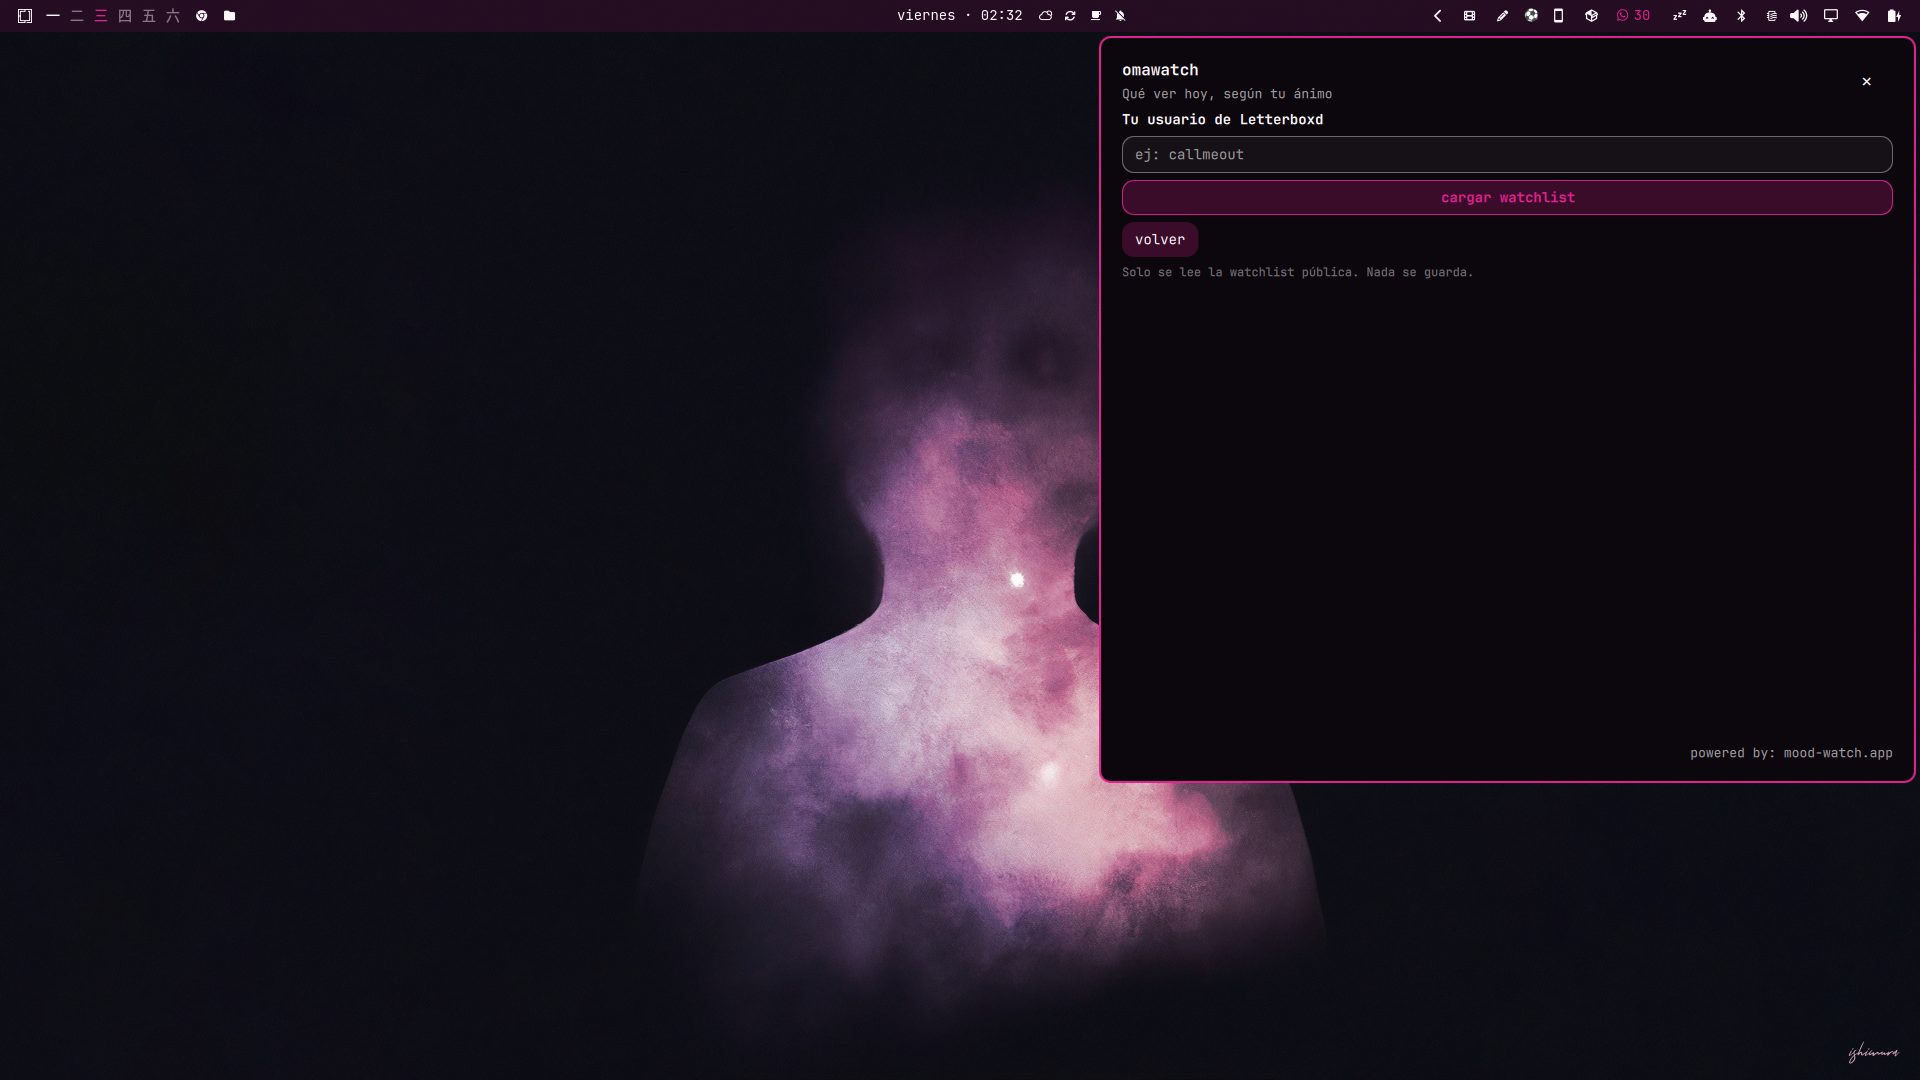
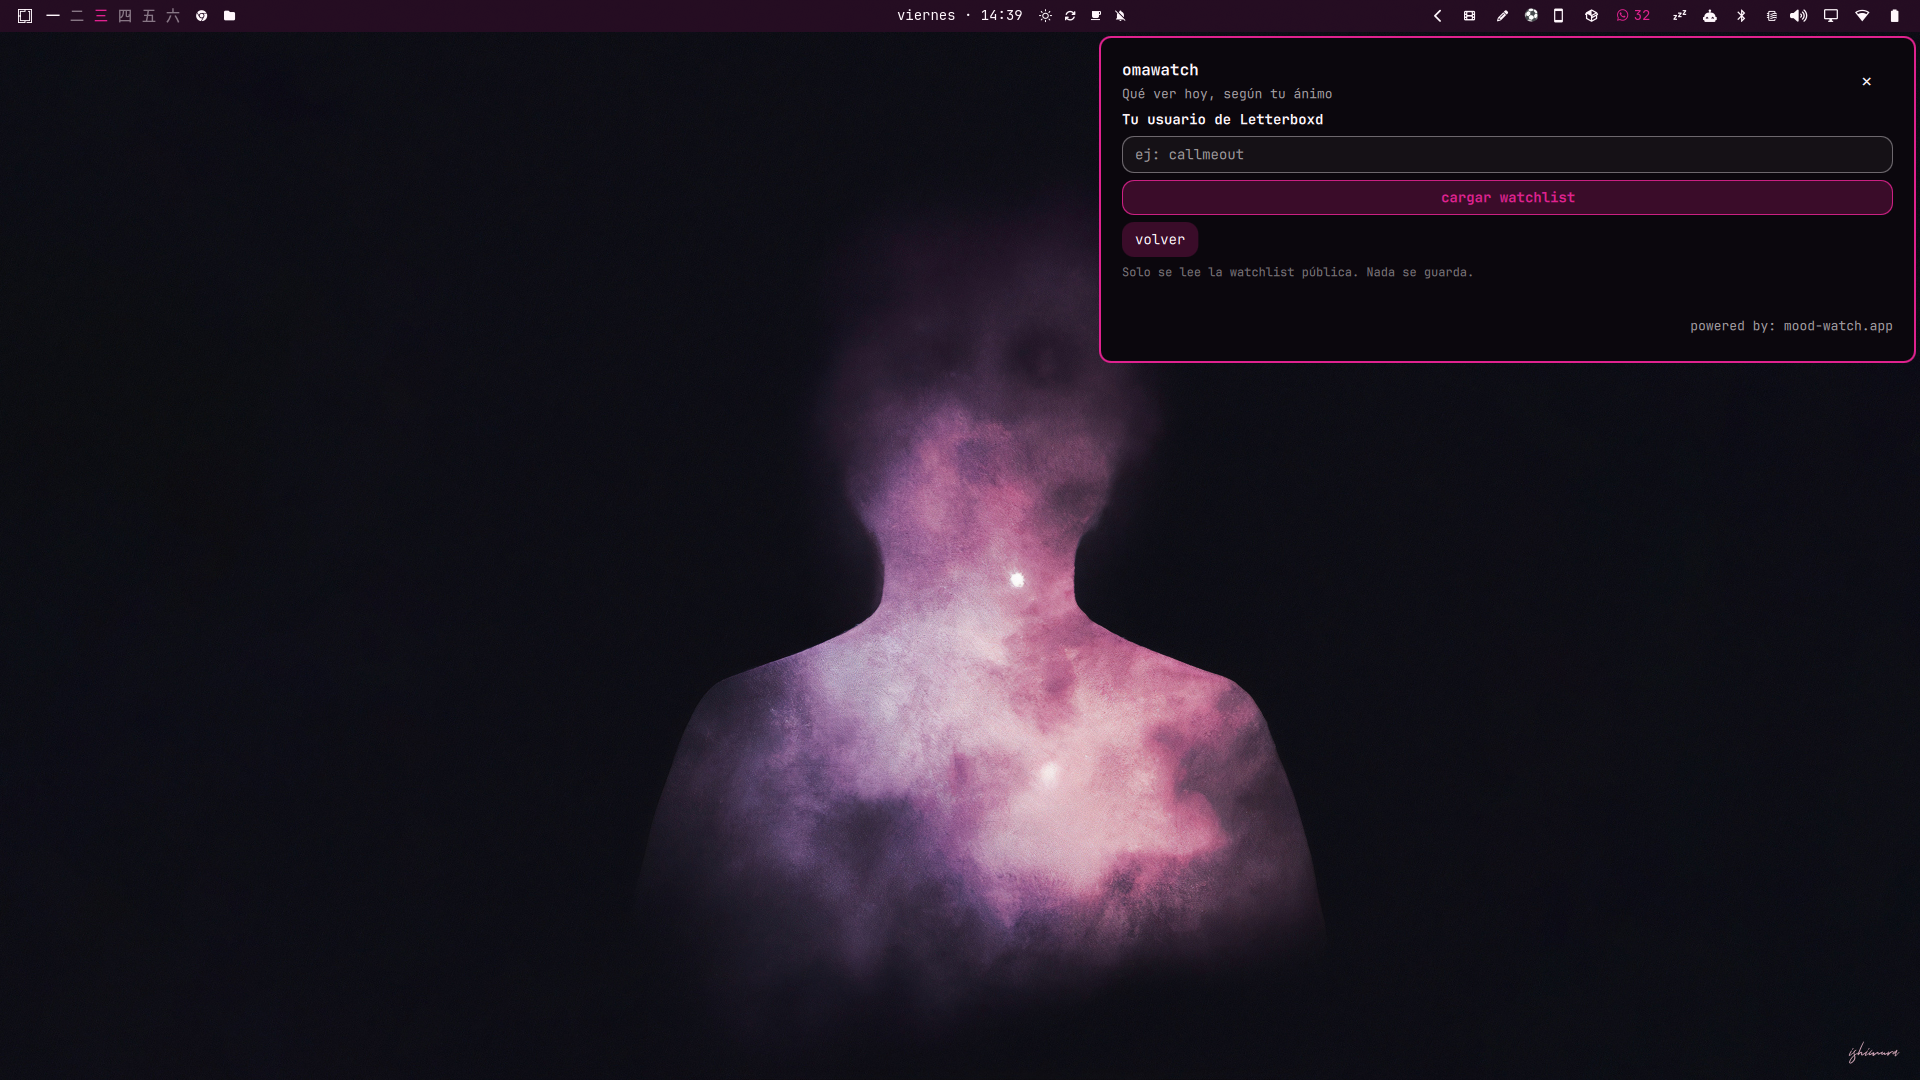
release: omawatch 1.0.6 with polished English README and Ko-fi support

diff --git a/Omawatch.qml b/Omawatch.qml
@@ -16,7 +16,7 @@ Item {
     : root.phase === "quiz"
       ? Style.space(340)
       : root.phase === "letterboxd" || root.phase === "syncing"
-        ? Style.space(460)
+        ? Style.space(280)
         : Style.space(340)
   property bool opened: false
   property bool busy: false

diff --git a/README.md b/README.md
@@ -1,35 +1,70 @@
 # omawatch
 
-[Español](README.es.md)
+<p align="center">
+  <a href="https://www.ko-fi.com/brmcl"><img src="https://ko-fi.com/img/githubbutton_sm.svg" alt="Support me on Ko-fi" /></a>
+</p>
 
-![omawatch preview](preview.png)
+<p align="center">
+  <strong>A small, opinionated film picker for Omarchy.</strong><br />
+  Five mood questions, a public Letterboxd watchlist, or one blind wager for tonight.
+</p>
 
-![omawatch icon](icon.png)
+<p align="center">
+  <a href="https://github.com/brm-src/omawatch/releases"><img src="https://img.shields.io/github/v/release/brm-src/omawatch?style=flat-square&label=release" alt="Latest release" /></a>
+  <a href="https://github.com/brm-src/omawatch/blob/main/LICENSE"><img src="https://img.shields.io/github/license/brm-src/omawatch?style=flat-square" alt="MIT license" /></a>
+</p>
+
+<p align="center">
+  <img src="preview.png" alt="omawatch preview" />
+</p>
+
+A bilingual Omarchy / Quickshell panel powered by [mood-watch.app](https://mood-watch.app). It answers one question without becoming a tracker, social feed, or recommendation dashboard:
+
+> **What should I watch tonight?**
 
 ## Real screenshots
 
-These are captures from the running plugin on an Omarchy desktop, not mockups:
+These are captures from the running plugin on an Omarchy desktop, not mockups.
 
-- [home](screenshots/01-home-final.png) — mood test, Letterboxd and surprise actions.
-- [quiz](screenshots/02-quiz-final.png) — five-question mood flow.
-- [Letterboxd](screenshots/03-letterboxd-final.png) — public watchlist connection.
-- [results](screenshots/04-results-final.png) — three live recommendations from mood-watch.app.
-- [desktop bar](screenshots/05-desktop-bar.png) — the real bar context with the film icon.
+<p align="center">
+  <img src="screenshots/01-home-final.png" alt="omawatch home panel" />
+</p>
 
-The small film-reel icon in `icon.svg` is also used by the bar widget.
+<p align="center"><em>Home: mood test, surprise pick, public Letterboxd watchlist.</em></p>
 
-A bilingual Omarchy / Quickshell panel that picks a film for tonight. Answer a five-question mood quiz — or connect your Letterboxd username and get picks from your own watchlist. Powered by [mood-watch.app](https://mood-watch.app).
+<p align="center">
+  <img src="screenshots/02-quiz-final.png" alt="omawatch mood quiz" />
+</p>
 
-It is deliberately not a tracker or a social feed. It answers one question: what do I watch tonight?
+<p align="center"><em>Quiz: short, focused questions with compact controls.</em></p>
+
+<p align="center">
+  <img src="screenshots/03-letterboxd-final.png" alt="omawatch Letterboxd connection" />
+</p>
+
+<p align="center"><em>Letterboxd: public watchlist connection, no login or password.</em></p>
+
+<p align="center">
+  <img src="screenshots/04-results-final.png" alt="omawatch film recommendations" />
+</p>
+
+<p align="center"><em>Results: live posters, complete overviews, English presentation titles where appropriate, and localized descriptions.</em></p>
+
+<p align="center">
+  <img src="screenshots/05-desktop-bar.png" alt="omawatch in the Omarchy desktop bar" />
+</p>
+
+<p align="center"><em>The real bar context with the film icon.</em></p>
 
 ## What it does
 
-- **Quick mood test** — five questions (energy, appetite, time, tone, aftertaste) and it returns three picks with poster, year, director, runtime and overview.
-- **Letterboxd watchlist** — enter your username once, it reads your public watchlist, and the same quiz then picks from *your* list. The public `@callmeout` account was used for the real screenshot/e2e check (466 watchlist titles).
-- **Surprise me** — no questions, a random wager from the catalog.
-- Picks include "where to watch" and Letterboxd links.
-- Bilingual UI (English/Spanish) following the system locale.
-- The username is only used to read your public watchlist. Nothing is stored on disk and no account is created.
+- **Quick mood test** — five questions covering energy, appetite, time, tone, and aftertaste.
+- **Letterboxd watchlist** — enter a public username and pick only from your own watchlist. The public `@callmeout` account was used for the real sync check with 466 titles.
+- **Surprise me** — one curated blind pick without a questionnaire.
+- **Useful film cards** — poster, title, year, director, runtime, complete overview, where-to-watch link, and Letterboxd link.
+- **Presentation rule** — titles and posters stay in English unless the film is Spanish-language; overviews and genres follow the system language.
+- **Bilingual UI** — English or Spanish according to the system locale.
+- **Privacy by default** — no account, no password, no API key, and no watchlist data written to disk.
 
 ## Install
 
@@ -37,29 +72,31 @@ It is deliberately not a tracker or a social feed. It answers one question: what
 omarchy plugin add https://github.com/brm-src/omawatch.git --enable --yes
 ```
 
-No administrator privileges are required. The plugin needs Omarchy/Hyprland, Quickshell, Python 3, and an internet connection.
+No administrator privileges are required. The plugin needs Omarchy / Hyprland, Quickshell, Python 3, and an internet connection.
 
 ## Use
 
-1. Click the film icon in the bar.
-2. Choose **quick mood test**, **use my letterboxd watchlist**, or **surprise me**.
-3. For Letterboxd: type your username, wait for the sync, then answer the quiz.
-4. Read the three picks, open "where to watch ↗" or Letterboxd if one calls you.
+1. Click the film icon in the Omarchy bar.
+2. Choose **Quick mood test**, **Connect watchlist**, or **Surprise me**.
+3. For Letterboxd, enter a public username, wait for the sync, and answer the quiz.
+4. Read the picks and open **where to watch** or **Letterboxd** when useful.
 
-Press `Escape`, `Super + W`, or click outside the card to close.
+Press `Escape`, `Super + W`, or click outside the panel to close it.
 
 ## How it works
 
-1. `Omawatch.qml` renders the panel and the quiz, following the Omarchy design system (same fonts, colors, borders and spacing as the built-in panels).
-2. `omawatch.py` is a stateless helper: each action is one subprocess call that talks to the public mood-watch API over HTTPS.
-3. Mood answers map to the same scoring axes the web app uses (energy, risk, tone, trust, depth, runtime, company).
-4. Watchlist sync uses the public sync flow: start, poll until ready, then request picks restricted to the watchlist with the returned token. The token lives only in memory.
+1. `Omawatch.qml` renders the panel using Omarchy's own primitives, fonts, colors, borders, separators, action rows, and compact controls.
+2. `omawatch.py` is a stateless HTTPS helper for the public mood-watch API.
+3. Anonymous answers are mapped to the same editorial routes used by the web product.
+4. Spanish presentation fetches the English title/poster variant in parallel while keeping the overview in Spanish.
+5. Letterboxd sync starts and polls a public read-only job; its short-lived token stays in memory only.
 
 ## Privacy
 
 - No text, username, or watchlist data is written to disk.
-- Only the public Letterboxd watchlist is read; no login, no password, no API keys.
-- Requests go to `moodwatch-api.brmcl.workers.dev` (Cloudflare). See the [mood-watch privacy notes](https://mood-watch.app).
+- Only a public Letterboxd watchlist is read; there is no login flow.
+- Requests go to `moodwatch-api.brmcl.workers.dev` through HTTPS.
+- See the [mood-watch privacy notes](https://mood-watch.app).
 
 ## Remove
 
@@ -87,3 +124,7 @@ omarchy plugin validate .
 ## License
 
 MIT. See [LICENSE](LICENSE).
+
+<p align="center">
+  <a href="https://www.ko-fi.com/brmcl"><img src="https://ko-fi.com/img/githubbutton_sm.svg" alt="Support me on Ko-fi" /></a>
+</p>

diff --git a/README.es.md b/README.es.md
@@ -87,3 +87,7 @@ omarchy plugin validate .
 ## Licencia
 
 MIT. Consulta [LICENSE](LICENSE).
+
+<p align="center">
+  <a href="https://www.ko-fi.com/brmcl"><img src="https://ko-fi.com/img/githubbutton_sm.svg" alt="Apóyame en Ko-fi" /></a>
+</p>
